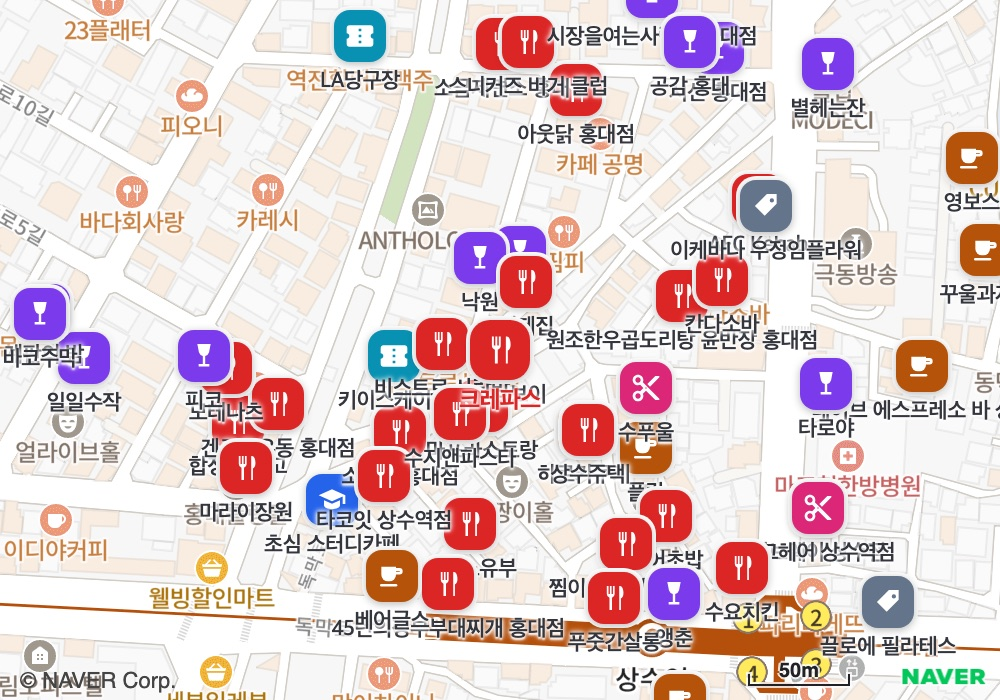
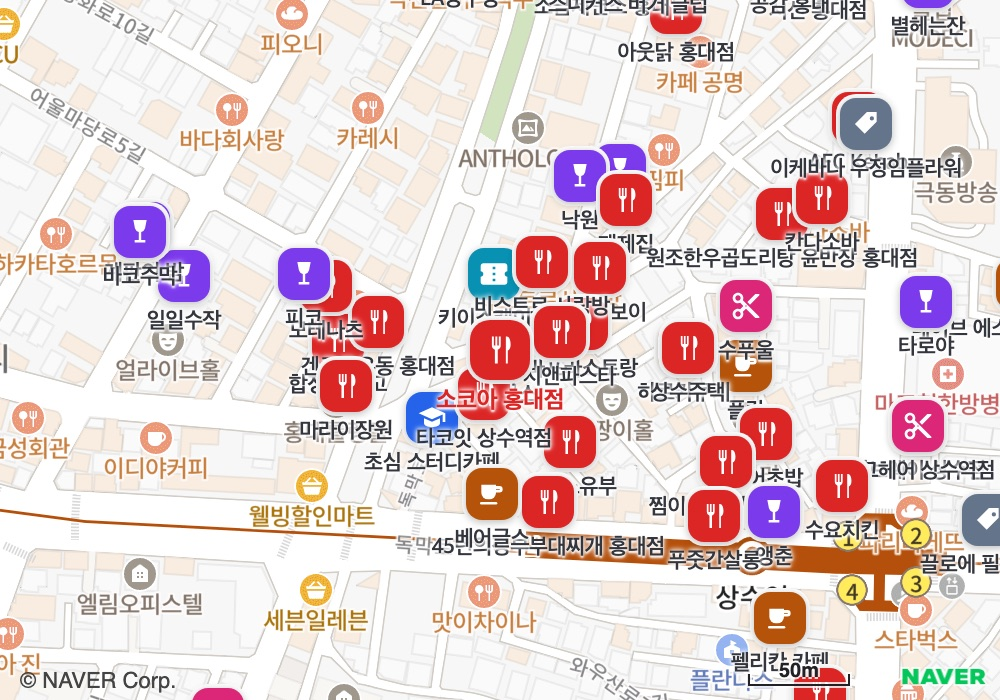
fix(nearby): 반경 예시 지도 가운데를 소코아 홍대점으로(운영진 요청), 그림 다시 찍음

diff --git a/src/components/settings/NearbyRadiusMap.tsx b/src/components/settings/NearbyRadiusMap.tsx
@@ -10,10 +10,10 @@ import { useMapData } from '../../lib/mapData'
 const GPS_ALLOWANCE_METERS = 15
 
 /**
- * 예시 지도 가운데 업체. 11-02 업체 데이터로 반경 50m 안에 다른 제휴업체가 가장 많이 모인 곳을 골랐다.
+ * 예시 지도 가운데 업체(11-02 운영진이 고름). 상수역 앞 제휴업체가 모인 골목이다.
  * 배경 그림이 이 업체를 정가운데에 두고 찍은 것이라, 업체를 바꾸면 그림도 다시 찍어야 한다.
  */
-const CENTER = { name: '크레파스', lat: 37.5489876, lng: 126.9214919 } as const
+const CENTER = { name: '소코아 홍대점', lat: 37.548639, lng: 126.920953 } as const
 
 /**
  * 배경 그림(네이버 지도를 11-02 한 번 찍은 것). 설정을 열 때마다 지도를 불러오지 않는다.
@@ -32,7 +32,7 @@ function metersPerPixel(zoom: number): number {
 }
 
 /**
- * 알림 반경 아래 지도 예시(11-01, 11-02 그림으로 바꿈). 제휴업체가 가장 많이 모인 곳을 가운데 두고,
+ * 알림 반경 아래 지도 예시(11-01, 11-02 그림으로 바꿈). 예시 업체를 가운데 두고,
  * 고른 반경(실선)과 GPS 오차를 더한 가장 바깥(점선)을 그림 위에 실제 축척으로 그린다.
  */
 export default function NearbyRadiusMap({ meters }: { meters: number }) {
@@ -70,7 +70,7 @@ export default function NearbyRadiusMap({ meters }: { meters: number }) {
         {CENTER.name} 기준 · 반경 {meters}m 안 제휴업체 {inside}곳
       </Text>
       <Text style={styles.legend}>
-        제휴업체가 가장 많이 모인 곳을 예로 들었어요. 실선 원 안에 머물면 그 가게 알림이 오고, 점선은 GPS 오차를 더해 줄 수 있는 가장
+        제휴업체가 모인 상수역 앞 골목의 한 가게를 예로 들었어요. 실선 원 안에 머물면 그 가게 알림이 오고, 점선은 GPS 오차를 더해 줄 수 있는 가장
         바깥(반경 + {GPS_ALLOWANCE_METERS}m)이에요.
       </Text>
     </View>
